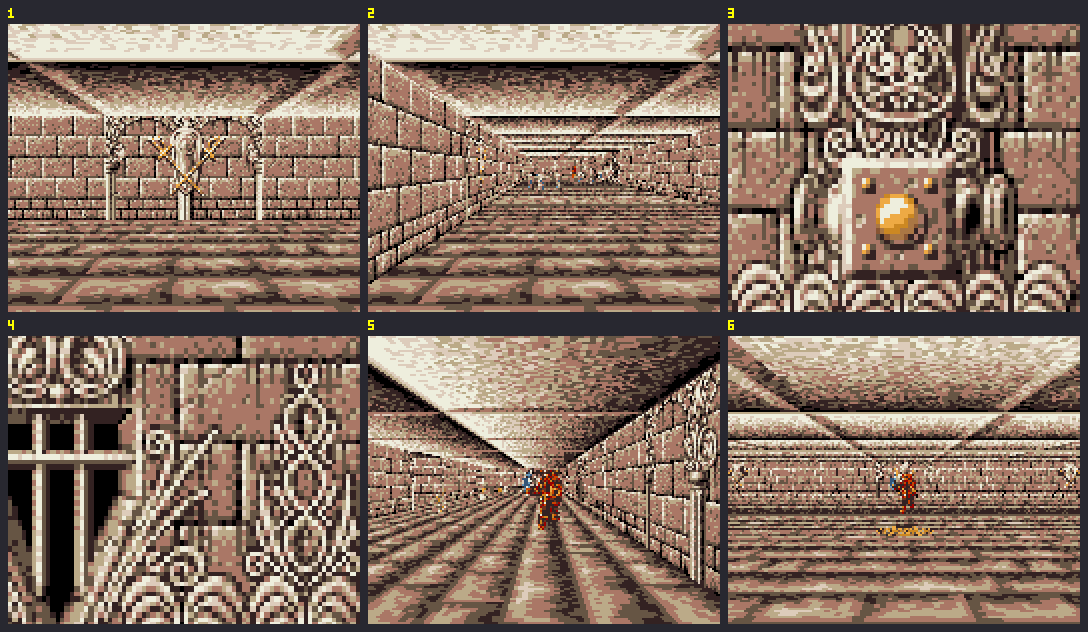
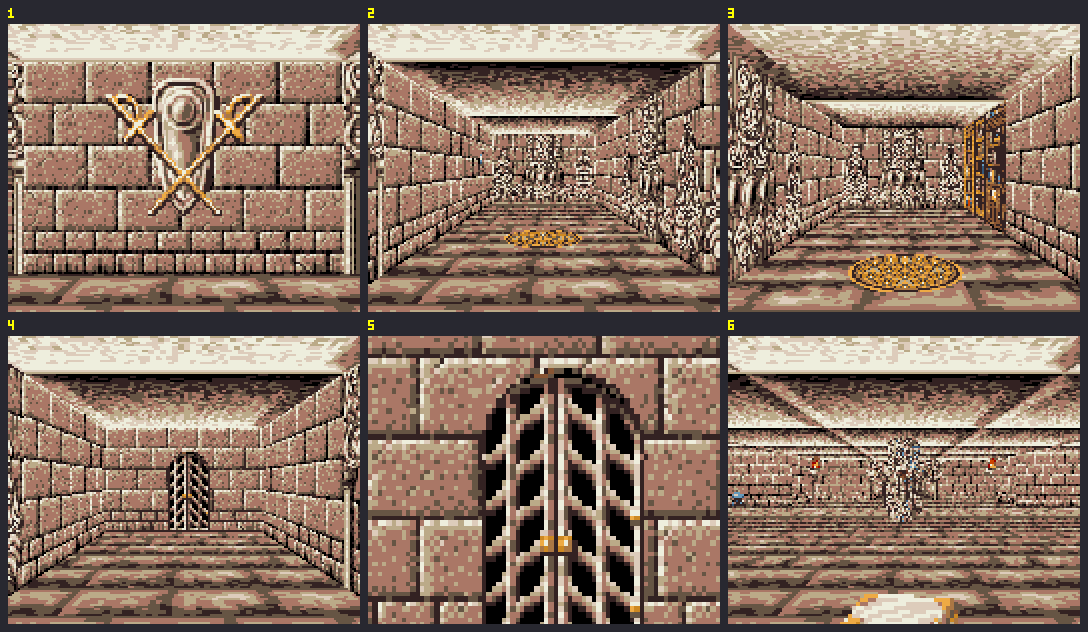
S'Orel temple (map 488) rebuilt from the sketch: split ring corridor with see-through barred gates, switch for the east gate, key gate by eye or hand, bookshelf with spell scrolls, serpent totem, crystal table with stools; chest index fixes (S'Riel opens chest 117 again), 7 ancient fragments in ches

diff --git a/assets/Temples/tools/build_prototype.py b/assets/Temples/tools/build_prototype.py
@@ -73,6 +73,14 @@ NEW_WALLS = [
 SWITCH_OVERLAYS = {156: 133, 157: 134}
 SWITCH_KNOB = {0xb: 12, 0xa: 12, 0x7: 13, 0x8: 13}         # only inside the knob area x 17-28, y 10-20
 W_PLAIN_SWITCH_OFF, W_PLAIN_SWITCH_ON = 135, 136
+# 2Wall3D.amb 201: the sandstone wall (copy 195) with the barred gate of wall texture 74 (arch x 51-84, top at y 18).
+# The gaps between the bars stay colour 0, which is see-through because the wall has the transparency flag 0x08
+# (like wall 74 itself in labdata 35). The outermost gate pixel on the left and right is dark, so the gate
+# looks set into the frame. The black joints (colour 0) of the sandstone become colour 6, otherwise they would be holes.
+BARS_TEX, BARS_SOURCE = 201, 74
+TRANSPARENT_SOLID = 0x40000088                       # blocks movement, transparent, does not block sight
+NEW_WALLS.append((BARS_TEX, TRANSPARENT_SOLID, 1, 4, []))  # 137: barred gate
+W_BARS = 137
 
 # labdata 5 walls (tile values) and object groups
 W_DOOR, W_ARCHES, W_PLAIN, W_PILLAR, W_FRIEZE, W_GATE = 101, 102, 103, 104, 105, 106
@@ -114,6 +122,9 @@ CRYSTAL_STOOL_TEX, CRYSTAL_TABLE_TEX = 415, 416      # 2Object3D.amb
 CRYSTAL_WOOD = {0x1: 1, 0xb: 2, 0xa: 12, 0x7: 12, 0x8: 13}
 CRYSTAL_STONE = {1: 1, 2: 2, 3: 12, 4: 13, 5: 13, 6: 6}
 G_MORANIAN = 45            # new object group: a single Moranian in a robe (object 30 of group 28 without the guards)
+# crystal table in the tile centre and stools in the south (y = 128) or north quarter (y = 384) of their tile, for a
+# table with a stool above and below it (S'Orel)
+G_CRYSTAL_TABLE_CENTRE, G_CRYSTAL_STOOL_SOUTH, G_CRYSTAL_STOOL_NORTH = 46, 47, 48
 VAR_PAINTING_REMOVED, VAR_SWITCH_USED = 478, 479       # global variables (S'Riel: painting taken down, switch used)
 
 MAGIC_GUARDS = 68           # monster group: 4 magic guards
@@ -262,7 +273,7 @@ def sriel():
     p.chain(0, [text(3)], (10, 7))
     p.chain(0, [text(4)], (10, 8))
     p.chain(0, [text(7)], (7, 7))                                                      # 7 diary on the table
-    p.chain(13, [ev(0x03, 50, 0, 0xff, 117)], (5, 8))                                  # 8 chest 117 (key 388 for S'Orel)
+    p.chain(13, [ev(0x03, 50, 0, 0xff, 117 - 1)], (5, 8))                              # 8 chest 117 (key 388 for S'Orel, 0-based index)
     p.chars = [(TWO_GUARDS, GUARD_STAY, G_GUARD, 7, 6), (TWO_GUARDS, GUARD_STAY, G_GUARD, 7, 11)]
     p.header = dict(flags=0x0899, music=22, labdata=NEW_LAB, palette=59, world=2)
     p.texts = SRIEL_TEXTS
@@ -274,25 +285,22 @@ def sriel():
 
 
 def sorel():
-    """S'Orel (barracks): outer corridor with guards and a spike trap (switched off by a hidden button),
-    at the far end the gate to the inner part (key 388 from S'Riel's chest 117). Inside: armoury with weapon
-    racks and chest 118, then the training hall with the big guard group and chest 119 (key 389 for S'Arin)."""
-    p = Proto(488, 21, 21)
+    """S'Orel (sketch of 2026-11-13): round 13x13 temple like S'Riel. The ring corridor is cut in two by the wall (3,7)
+    and the barred gate (11,7). The switch (2,8) in the west corridor lifts the east gate, the north gate (7,4) to the
+    central chamber needs key 388 from S'Riel's chest 117. Bookshelf (2,6) with chest 116 (spell scrolls)."""
+    p = Proto(488, 13, 13)
     floor = set()
-
-    def rect(x0, y0, x1, y1):
-        for y in range(y0, y1 + 1):
-            for x in range(x0, x1 + 1):
-                floor.add((x, y))
-    rect(4, 4, 5, 18)           # outer corridor west
-    rect(17, 4, 18, 18)         # east
-    rect(4, 4, 18, 5)           # north
-    rect(4, 17, 18, 18)         # south
-    rect(7, 7, 15, 8)           # armoury
-    rect(7, 10, 15, 15)         # training hall
-    floor.add((11, 9))          # arch between armoury and hall
-    gate, button = (11, 6), (19, 9)
-    spikes = [(4, 9), (5, 11), (4, 13)]
+    for x in range(4, 11):
+        floor |= {(x, 3), (x, 11)}                  # ring corridor north and south
+    for y in range(4, 11):
+        floor |= {(3, y), (11, y)}                  # west and east
+    floor |= {(4, 4), (10, 4), (4, 10), (10, 10)}   # rounded inner corners of the ring
+    floor |= {(6, 5), (7, 5), (8, 5), (6, 9), (7, 9), (8, 9)}       # central chamber
+    for y in range(6, 9):
+        for x in range(5, 10):
+            floor.add((x, y))
+    floor -= {(3, 7), (11, 7)}                      # wall in the west corridor, barred gate in the east corridor
+    gate_north, gate_east, button, shelf, exit_ = (7, 4), (11, 7), (2, 8), (2, 6), (7, 12)
     for y in range(1, p.h + 1):
         for x in range(1, p.w + 1):
             if (x, y) in floor:
@@ -301,72 +309,68 @@ def sorel():
                 p.tiles[y][x] = W_PLAIN
     walls = {
         # outer wall
-        (11, 3): W_FRAMES_WINDOW, (7, 3): W_FRAMES_CREST, (15, 3): W_FRAMES_CREST,
-        (3, 11): W_FRAMES_WINDOW, (3, 7): W_FRAMES_CREST, (3, 15): W_FRAMES_CREST,
-        (19, 11): W_FRAMES_WINDOW, (19, 7): W_FRAMES_CREST, (19, 15): W_FRAMES_CREST, button: W_SWITCH1,
-        (11, 19): W_DOOR_FRAMED, (10, 19): W_FRIEZE, (12, 19): W_FRIEZE, (7, 19): W_FRAMES_WINDOW, (15, 19): W_FRAMES_WINDOW,
-        # inner building, outside
-        gate: W_GATE, (10, 6): W_FRAME_R, (12, 6): W_FRAME_L, (6, 11): W_PILLAR, (16, 11): W_PILLAR,
-        (11, 16): W_ARCHES_CREST, (8, 16): W_CREST, (14, 16): W_CREST, (6, 8): W_FRIEZE, (16, 8): W_FRIEZE,
-        # inside: wall between armoury and hall
-        (10, 9): W_FRAME_R, (12, 9): W_FRAME_L, (8, 9): W_ARCHES, (14, 9): W_ARCHES,
+        exit_: W_DOOR_FRAMED, (6, 12): W_FRIEZE, (8, 12): W_FRIEZE, (5, 12): W_FRAMES_WINDOW, (9, 12): W_FRAMES_WINDOW,
+        (7, 2): W_FRAMES_CREST, (5, 2): W_FRAMES_WINDOW, (9, 2): W_FRAMES_WINDOW,
+        shelf: W_SHELF1, button: W_PLAIN_SWITCH_OFF, (2, 4): W_FRAMES_WINDOW, (2, 10): W_FRAMES_WINDOW,
+        (12, 5): W_FRAMES_WINDOW, (12, 7): W_FRAMES_CREST, (12, 9): W_FRAMES_WINDOW,
+        (3, 3): W_PILLAR, (11, 3): W_PILLAR, (3, 11): W_PILLAR, (11, 11): W_PILLAR, (3, 7): W_PILLAR,
+        gate_east: W_BARS,
+        # central block (seen from the corridor and from the chamber)
+        gate_north: W_BARS, (6, 4): W_FRAMES, (8, 4): W_FRAMES, (5, 4): W_FRIEZE, (9, 4): W_FRIEZE,
+        (6, 10): W_FRAMES, (8, 10): W_FRAMES, (7, 10): W_CREST, (5, 10): W_FRIEZE, (9, 10): W_FRIEZE,
+        (4, 7): W_CREST, (4, 5): W_PILLAR, (4, 9): W_PILLAR, (10, 7): W_CREST, (10, 5): W_PILLAR, (10, 9): W_PILLAR,
     }
-    for (x, y), tl in walls.items():
-        p.tiles[y][x] = tl
-    objects = {
-        (4, 4): G_ROBE, (18, 4): G_ROBE, (4, 18): G_ROBE, (18, 18): G_ROBE,
-        (7, 7): G_TABLET, (8, 7): G_WEAPONS, (10, 7): G_WEAPONS, (12, 7): G_WEAPONS, (14, 7): G_WEAPONS, (15, 7): G_CHEST,
-        (8, 11): G_COLUMN, (14, 11): G_COLUMN, (8, 14): G_COLUMN, (14, 14): G_COLUMN, (11, 15): G_CHEST,
-        (7, 10): G_GOLEM, (15, 10): G_GOLEM, (11, 12): G_MOSAIC_ORANGE,
-    }
-    for xy in spikes:
-        objects[xy] = G_SPIKES
+    for (x, y), t in walls.items():
+        p.tiles[y][x] = t
+    objects = {xy: G_FIRE_BOWL for xy in ((6, 6), (8, 6), (6, 8), (8, 8))}
+    objects.update({
+        (7, 7): G_TOTEM, (9, 8): G_BED, (7, 9): G_CHEST,
+        (5, 6): G_CRYSTAL_STOOL_SOUTH, (5, 7): G_CRYSTAL_TABLE_CENTRE, (5, 8): G_CRYSTAL_STOOL_NORTH,
+        # carpets
+        (5, 3): G_MOSAIC_GREEN, (9, 3): G_MOSAIC_GREEN, (5, 11): G_MOSAIC_GREEN, (9, 11): G_MOSAIC_GREEN,
+        (3, 5): G_MOSAIC_ORANGE, (3, 9): G_MOSAIC_ORANGE, (11, 4): G_MOSAIC_ORANGE, (11, 9): G_MOSAIC_ORANGE,
+        (7, 5): G_MOSAIC,
+    })
     for (x, y), g in objects.items():
         p.tiles[y][x] = g
 
     text = lambda n, trigger=2: ev(0x04, 0xff, trigger, 0, 0, n)    # noqa: E731
     hand = lambda: ev(0x0d, 0x0e, 1, 0, 0, 0, 0, 0, 0xff, 0xff)    # noqa: E731
-    p.chain(14, [word(ev(0x01, 33, 28, 2, 0xff, 0), 6, 525)], (11, 19))                # 1 exit -> Morag (like 445)
-    trap = p.chain(5, [text(1, 1), ev(0x06, 0x09, 1, 3, 0xff)], *spikes)                # 2 spikes (text and trap of 445)
-    btn = p.chain(7, [], button)                                                       # 3 hidden button
-    p.chains[-1] = (7, [hand(), text(2, 0), word(ev(0x0a, button[0], button[1]), 6, W_SWITCH2),
-                        word(ev(0x0e, 0x01, 1), 6, p.event_bit(btn))]
-                   + [word(ev(0x0a, x, y), 6, 0) for x, y in spikes] + [word(ev(0x0e, 0x01, 1), 6, p.event_bit(trap))])
-    door = p.chain(9, [], gate)                                                        # 4 gate, key 388 (door 33 like 445)
-    p.chains[-1] = (9, [hand(), bytearray.fromhex('026421ffff000184ffffffff'), ev(0x0d, 0x09, 1, 0, 0, 0, 0, 0, 0xff, 0xff),
-                        word(ev(0x0e, 0x01, 1), 6, p.event_bit(door)), word(ev(0x0a, gate[0], gate[1]), 6, 0)])
-    p.chain(0, [text(3)], (7, 7))                                                      # 5 duty roster
-    p.chain(13, [ev(0x03, 85, 0, 0xff, 118)], (15, 7))                                 # 6 chest 118 (armoury)
-    p.chain(13, [ev(0x03, 50, 0, 0xff, 119)], (11, 15))                                # 7 chest 119 (key 389)
-    # monsters that only move when they see the party (flag 0x80), so they don't wander into corners
-    p.chars = [(TWO_GUARDS, GUARD_STAY, G_GUARD, 18, 12), (MAGIC_GUARDS, GUARD_STAY, G_GUARD, 11, 5),
-               (MAGIC_GUARDS, GUARD_STAY, G_GUARD, 5, 7), (SIX_GUARDS, GUARD_STAY, G_GUARD, 11, 13),
-               (TWO_GUARDS, GUARD_STAY, G_GUARD, 9, 8)]
+    p.chain(14, [word(ev(0x01, 33, 28, 2, 0xff, 0), 6, 525)], exit_)                   # 1 exit -> Morag (like 445)
+    btn = p.chain(7, [], button)                                                       # 2 switch lifts the east gate
+    p.chains[-1] = (7, [hand(), text(1, 0), word(ev(0x0a, button[0], button[1]), 6, W_PLAIN_SWITCH_ON),
+                        word(ev(0x0a, gate_east[0], gate_east[1]), 6, 0), word(ev(0x0e, 0x01, 1), 6, p.event_bit(btn))])
+    door = p.chain(9, [], gate_north)                                                  # 3 north gate, key 388 (door 33 like 445)
+    eye_or_hand = word(word(ev(0x0d, 0x17, 1), 6, 0x3), 8, 0xffff)  # multi cursor condition: hand (1) or eye (2)
+    p.chains[-1] = (9, [eye_or_hand, bytearray.fromhex('026421ffff000184ffffffff'), ev(0x0d, 0x09, 1, 0, 0, 0, 0, 0, 0xff, 0xff),
+                        word(ev(0x0e, 0x01, 1), 6, p.event_bit(door)), word(ev(0x0a, gate_north[0], gate_north[1]), 6, 0)])
+    p.chain(0, [text(2)], (5, 7))                                                      # 4 duty roster on the table
+    p.chain(13, [ev(0x03, 50, 0, 0xff, 119 - 1)], (7, 9))                              # 5 chest 119 (key 389, 0-based index)
+    p.chain(0, [ev(0x03, 0, 0, 0xff, 118 - 1)], shelf)                                 # 6 bookshelf: chest 118 with spell scrolls
+    p.chars = [(SIX_GUARDS, GUARD_STAY, G_GUARD, 7, 6), (TWO_GUARDS, GUARD_STAY, G_GUARD, 11, 5)]
     p.header = dict(flags=0x0891, music=18, labdata=NEW_LAB, palette=60, world=2)    # lit, no map (445 was dark)
     p.texts = SOREL_TEXTS
-    p.open_tiles = [gate]
-    p.views = [(11, 18, 0, 'Suedgang, Blick auf das Hallengebaeude', False), (4, 17, 0, 'Westgang mit Spiessfalle', False),
-               (18, 9, 90, 'Ostgang, versteckter Schalter', False), (11, 5, 180, 'Tor zum Innenbereich', False),
-               (7, 8, 90, 'Waffenkammer', True), (11, 10, 180, 'Uebungshalle mit Wachen und Truhe', True)]
+    p.open_tiles = [gate_north, gate_east]
+    p.views = [(7, 11, 0, 'Eingang, Suedgang', False), (3, 10, 0, 'Westgang mit Schalter', False),
+               (3, 4, 180, 'Westgang Nord, Buecherregal', False), (11, 9, 0, 'Ostgang mit Gittertor', False),
+               (7, 3, 180, 'Nordgang, Gittertor zum Zentralraum', False), (7, 9, 0, 'Zentralraum', True)]
     return p
 
 
 SOREL_TEXTS = {
     'de': [
         (445, 0),
-        (445, 1),
-        (445, 2),
+        "ALS ~LEAD~ DEN KNOPF DRÜCKT, HÖRT IHR EIN LAUTES RASSELN. IRGENDWO IM OSTEN HEBT SICH EIN GITTER.",
         "AUF EINER STEINTAFEL STEHT DER DIENSTPLAN DER PALASTWACHE. DARUNTER HAT JEMAND IN EILIGER SCHRIFT ERGÄNZT:^ "
         "\"SEIT S'OREL AUF LYRAMION GEFALLEN IST, ERHALTEN DIE WACHEN IHRE BEFEHLE VON S'ARIN. DEN SCHLÜSSEL ZU SEINEM "
-        "PALAST VERWAHRT DER HAUPTMANN IN DER TRUHE DER ÜBUNGSHALLE.\"",
+        "PALAST VERWAHRT DER HAUPTMANN IN SEINER TRUHE.\"",
     ],
     'en': [
         (445, 0),
-        (445, 1),
-        (445, 2),
+        "AS ~LEAD~ PRESSES THE BUTTON, YOU HEAR A LOUD RATTLING. SOMEWHERE TO THE EAST A GATE IS RAISED.",
         "THE DUTY ROSTER OF THE PALACE GUARD IS WRITTEN ON A STONE TABLET. BELOW IT SOMEONE HAS ADDED IN HASTY LETTERS:^ "
         "\"SINCE S'OREL FELL ON LYRAMION, THE GUARDS RECEIVE THEIR ORDERS FROM S'ARIN. THE CAPTAIN KEEPS THE KEY TO HIS "
-        "PALACE IN THE CHEST OF THE TRAINING HALL.\"",
+        "PALACE IN HIS CHEST.\"",
     ],
 }
 
@@ -474,7 +478,21 @@ def recoloured_graphics(lab):
         rows = [[SWITCH_KNOB.get(v, v) if 17 <= x <= 28 and 10 <= y <= 20 else v for x, v in enumerate(row)]
                 for y, row in enumerate(rows)]
         ovl_files[copy] = tx.encode_texture(rows, 40)
+    src = tx.decode_texture(walls_all()[BARS_SOURCE], 128, 80)
+    gate = [[v or 6 for v in row] for row in tx.decode_texture(wall_files[wall_map[99]], 128, 80)]  # black joints: no holes
+    for y in range(80):
+        xs = [x for x in range(128) if (51 <= x <= 84 and y >= 35) or ((x - 67.5) ** 2 + (y - 35) ** 2 <= 17.5 ** 2)]
+        for x in xs:
+            gate[y][x] = 6 if x - xs[0] < 1 or xs[-1] - x < 1 else src[y][x]
+    wall_files[BARS_TEX] = tx.encode_texture(gate, 128)
     return wall_files, ovl_files, wall_map, ovl_map
+
+
+def walls_all():
+    """2Wall3D.amb completed by 3Wall3D.amb (like the remake)."""
+    walls = dict(amb.read_container(os.path.join(DATA, '3Wall3D.amb')))
+    walls.update({k: v for k, v in amb.read_container(os.path.join(DATA, '2Wall3D.amb')).items() if v})
+    return walls
 
 
 def build_labdata(raw5, wall_map=None, ovl_map=None):
@@ -511,6 +529,12 @@ def build_labdata(raw5, wall_map=None, ovl_map=None):
     group[2:10] = struct.pack('>HHHH', 255, 255, 0, 30)
     lab.object_groups.append(group)
     assert len(lab.object_groups) == G_MORANIAN
+    stool_obj, table_obj = len(lab.objects) - 1, len(lab.objects)       # objects of the groups 43 and 44
+    for x, y, obj in ((255, 255, table_obj), (255, 128, stool_obj), (255, 384, stool_obj)):
+        group = bytearray(66)
+        group[2:10] = struct.pack('>HHHH', x, y, 0, obj)
+        lab.object_groups.append(group)
+    assert len(lab.object_groups) == G_CRYSTAL_STOOL_NORTH
     for tex, flags, automap, colour, overlays in NEW_WALLS:
         header = bytearray(struct.pack('>IBBBB', flags, tex, automap, colour, len(overlays)))
         lab.walls.append((header, [bytearray(o) for o in overlays]))

diff --git a/TODO.md b/TODO.md
@@ -187,7 +187,8 @@ Order and details: `000 Plan Episode 4.md`, milestones M1–M4.
   - Song 33 (Psychedelic Dune Groove, temple version, `assets/Temples/music/`) is chosen but **not in `Music.amb` yet**: in the remake `Song` 33 is `Intro` (34 Outro, 35 Menu), so a 33rd entry makes loading the game data fail. First change the remake (e.g. move Intro/Outro/Menu out of the Music.amb range), then append the song. The Amiga code already allows it (`Max_music` = 33). Then decide which temple uses it.
   - Optics: mockups in `assets/Temples/mockups/` (Gala/Sansri textures, one palette per temple).
   - **Prototypes** in `assets/Temples/prototypes/` (labdata 46 = temple base, see `assets/Temples/Labdata 46.md`): S'Riel (map 487, palette 59) and S'Orel (map 488, palette 60, monster group 172). Test on the Amiga with a new game and the cheat map jump. Next: S'Arin.
-  - S'Riel rebuilt from Robert's sketch (2026-11-13): round 13x13 map with a ring corridor around the central chamber, fire bowls hanging from the ceiling (new object group 42, built like merged.pdn), crystal table and stool (groups 43/44, textures 415/416, stool at x = 0 and table at x = 384 so they stand together), bed, chest 117 (key 388), shelves with texts, carpets, guard group 67 at (7,6) in the chamber and (7,11) at the entrance, arrival at (7,5): chamber guard hidden (character bit), music 30, delay 500 ms, arrival text, the Moranian (new object group 45) at (7,6) vanishes, the guard appears and attacks, map music again (tested in the remake, the music itself not checked), the third shelf is a council register with S'Riel's notes on S'Trog, S'Kat and S'Lorwin. Painting at (7,10): eye -> text (~LEAD~ recognises Lyramion and its moons), the painting is taken down and a switch appears (wall 135 with the blue-green switch overlay 156, global var 478), hand -> switch on (wall 136, overlay 157, var 479) and the secret wall (7,4) to the chamber opens. Tested in the remake. To do: own painting overlay with Lyramion and its moons (Robert makes the picture, the placeholder is the landscape painting 117); chest 116 of the old prototype is no longer placed; GlobalVars sheet, ObjectGfx and Labdata in the xlsx (it was open in LibreOffice).
+  - S'Orel rebuilt from Robert's sketch (2026-11-14): round 13x13 map like S'Riel, palette 60. The ring corridor is split by the wall (3,7) and the barred gate (11,7) (new wall 137, see-through texture 201 with the gate of wall 74 and the transparency flag). The switch (2,8) in the west corridor (wall 135/136) lifts the east gate, the north gate (7,4) opens with key 388 (door 33 like 445), by eye or hand (multi cursor condition). Bookshelf (2,6) = chest 118 with spell scrolls (Robert's list plus the scrolls of the old chest 119), central chamber with the serpent totem (7,7), crystal table (5,7) with stools above and below (groups 46-48), bed (9,8), four fire bowls, chest 119 (7,9): key 389, crystal strings, Morag robe and dart (from 118), Morag sword, shield and armour (from 120), 9 ancient fragments, 521 gold. Guards: group 172 in the chamber (7,6), group 67 in the east corridor (11,5). Tested in the remake (switch, key gate, shelf, chest, furniture). Chest indices in chest events are 0-based (event value + 1 = Chest_data entry, the xlsx Chests sheet counts the entries); chest 116 belongs to map 438, chests 118/120 are still used by the old temples 444/445.
+  - S'Riel rebuilt from Robert's sketch (2026-11-13): round 13x13 map with a ring corridor around the central chamber, fire bowls hanging from the ceiling (new object group 42, built like merged.pdn), crystal table and stool (groups 43/44, textures 415/416, stool at x = 0 and table at x = 384 so they stand together), bed, chest 117 (key 388, 7 ancient fragments added 2026-11-14; the first build wrongly opened chest 118), shelves with texts, carpets, guard group 67 at (7,6) in the chamber and (7,11) at the entrance, arrival at (7,5): chamber guard hidden (character bit), music 30, delay 500 ms, arrival text, the Moranian (new object group 45) at (7,6) vanishes, the guard appears and attacks, map music again (tested in the remake, the music itself not checked), the third shelf is a council register with S'Riel's notes on S'Trog, S'Kat and S'Lorwin. Painting at (7,10): eye -> text (~LEAD~ recognises Lyramion and its moons), the painting is taken down and a switch appears (wall 135 with the blue-green switch overlay 156, global var 478), hand -> switch on (wall 136, overlay 157, var 479) and the secret wall (7,4) to the chamber opens. Tested in the remake. To do: own painting overlay with Lyramion and its moons (Robert makes the picture, the placeholder is the landscape painting 117); xlsx (it was open in LibreOffice): GlobalVars 478/479, ObjectGfx 413-416, Overlays 156/157, WallGfx 201, Labdata 46 groups 42-48 and walls 135-137, Chests 117-119 and the Shards sheet (7 fragments in chest 117, 9 in chest 119).
   - Stronger temple guards (new monsters) are still missing, the prototypes only use the magic guard (monster 42).
   - Savegame patcher: add the automaps 485, 486, 487 and 488 (missing in old saves → fatal error on the Amiga when entering these maps).
   - Remake test works (`make_testdata.py` + teleport cheat), screenshots in `assets/Temples/prototypes/`.

diff --git a/assets/Temples/Labdata 46.md b/assets/Temples/Labdata 46.md
@@ -74,6 +74,7 @@ Die Steinfarben stammen aus einem Helligkeitsabgleich von Wand 99 mit der Sandst
 | 134 | 99 | 24, 25, 74 | | **neu:** Wappen zwischen Säulenrahmen |
 | 135 | 99 | 156 | | **neu:** Grundwand mit Schalter (aus), hinter dem Gemälde in S'Riels Tempel. Overlay 156 = Kopie von 133 mit blaugrünem Knopf |
 | 136 | 99 | 157 | | **neu:** Grundwand mit Schalter (an), Overlay 157 = Kopie von 134 mit blaugrünem Knopf |
+| 137 | 201 | | | **neu:** Gittertor, durchsichtig (Flags 0x40000088 mit Transparenz 0x08, blockiert die Sicht nicht). Textur 201 = Sandsteinwand 195 mit dem Gittertor aus Wandtextur 74 (Bogen x 51–84), die Lücken bleiben Farbe 0 und sind dadurch durchsichtig, das äußerste Pixel links und rechts ist dunkel, die schwarzen Fugen des Sandsteins sind Farbe 6 |
 
 Die Spalte „Textur“ nennt das Original. In den Daten steht bei den kopierten Texturen die Kopie (siehe oben). Im Map-Feld steht die Wandnummer direkt (101 = erste Wand). Weitere Overlays (Schalter, Schilder, Rätselmund, Ketten …) lassen sich jederzeit als neue Wände anhängen. Overlays müssen auf dem Amiga an 8-Pixel-Grenzen liegen (x = 0, 8, 16, …).
 
@@ -117,5 +118,8 @@ Die Bilder oben sind nach **Objekt** nummeriert, die Karte verwendet **Gruppen**
 | 43 | 46 | **neu:** Kristallhocker (Textur 415, aus dem Holzhocker 255 mit den Farben 12/13 und Glanzlichtern 1/2), am linken Feldrand (x = 0), damit er neben dem Tisch steht |
 | 44 | 47 | **neu:** Kristalltisch (Textur 416, Platte 250 zur Ellipse gestaucht auf dem Säulenbein 254, mit Bodenschatten), leicht rechts im Feld (x = 384) |
 | 45 | 30 | **neu:** einzelner Moraner in Robe (Objekt 30 aus Gruppe 28 ohne die Wachen), in S'Riels Tempel bis zum Ankunftstext |
+| 46 | 47 | **neu:** Kristalltisch in der Feldmitte (für Tische mit Hockern davor und dahinter, S'Orel) |
+| 47 | 46 | **neu:** Kristallhocker im südlichen Viertel des Feldes (y = 128), für das Feld nördlich eines Tisches |
+| 48 | 46 | **neu:** Kristallhocker im nördlichen Viertel des Feldes (y = 384), für das Feld südlich eines Tisches |
 
 Für die Wüstentempel gut geeignet sind: Säulen, Mosaike, Statuen, Golems, Kerzen, Tisch, Truhe, Kugel, Steintafeln, Stern, Funkeln und das Schlangentotem. Die Rüstungen (22, 23, 33) und das Schiffsgemälde (118) besser nicht verwenden.
